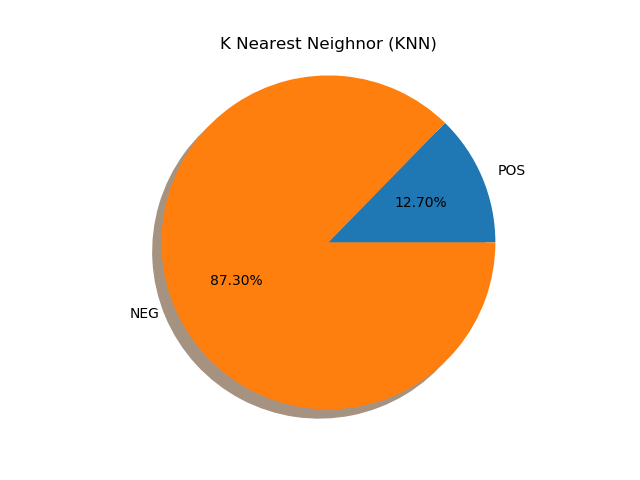
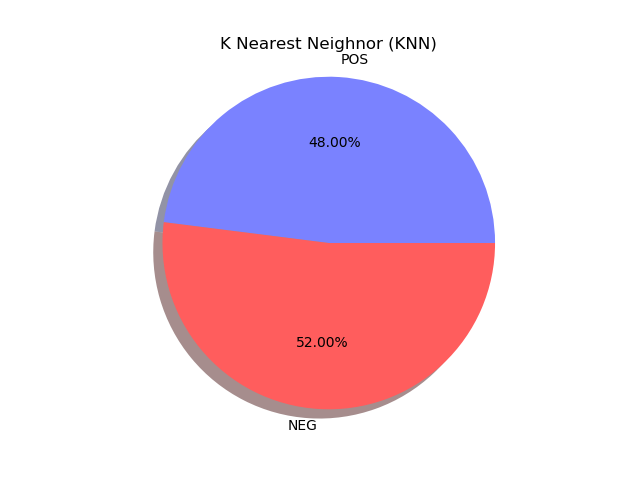
roc added with improvements.

Changed region(s): [[0.1875, 0.0938, 0.7812, 0.9062], [0.7812, 0.3438, 0.8125, 0.375]]

diff --git a/templates/result.html b/templates/result.html
@@ -71,7 +71,7 @@
             <div class="jumbotron jumbotron-fluid">
               <div class="container">
                 <h1 class="display-4">Predictions for {{Name}}</h1>
-                <p class="lead">Comparison Between 4 ML algorithms, showing there respective results:</p>
+                <h5 class="lead">Comparison Between 4 ML algorithms, showing there respective results:</h5>
               </div>
             </div>
           </div>    
@@ -99,6 +99,13 @@
           <div class="col"></div>
         </div>
          <div class="row">
+           <div class="col-lg-12">
+             <h3 class="display-4 pred">
+               Positive % and Negative % for each model
+             </h3>
+           </div>
+         </div>
+         <div class="row">
           
           <div class="col-sm-12 col-lg-6">
              <img class="img-fluid" src="../static/images/svmpie1.png" alt="svm result">
@@ -116,7 +123,18 @@
            </div>
          </div>
          <div class="row">
-           <div class="col"></div>
+           <div class="col">
+             <h3 class="display-4 pred">The ROC curve:</h3>
+             <p>
+               A receiver operating characteristic curve is a graph showing the performance of a classification model at all classification thresholds. This curve plots two parameters:
+               
+             </p>
+             <ul>
+               <li>True Positive Rate</li>
+               <li>False Positive Rate</li>
+             </ul>
+             
+           </div>
            <div class="col-lg-7">
              <div class="row">
                <div class="col">

diff --git a/app.py b/app.py
@@ -33,13 +33,13 @@ def predict():
                 ####
                 polarity = ['POS', 'NEG']
                 explode = [0, 0]
-                
+                colors = ['#7a82ff', '#ff5d5d']
                 
                 # # # Creating pie chart for visual comparisons # # #
                 svm_pos = df['sent_svm'].value_counts('pos')
                 svm_p = svm_pos['pos']*100
                 result = [svm_p,100-svm_p]
-                plt.pie(result, labels = polarity ,autopct='%1.2f%%', radius = 0.50, shadow = True,wedgeprops = {'edgecolor': 'black', 'linewidth': 0})
+                plt.pie(result, colors = colors, labels = polarity ,autopct='%1.2f%%', radius = 0.50, shadow = True,wedgeprops = {'edgecolor': 'black', 'linewidth': 0})
                 plt.title("Support Vector Machine (SVM)")
                 plt.axis('equal')
                 plt.savefig('/Users/sahil/Desktop/sentiproject/static/images/svmpie1.png', transparent= True)
@@ -50,7 +50,7 @@ def predict():
                 knn_pos = df['sent_knn'].value_counts('pos')
                 knn_p = knn_pos['pos']*100
                 result = [knn_p,100-knn_p]
-                plt.pie(result, labels = polarity ,autopct='%1.2f%%', shadow = True, radius = 0.50, wedgeprops = {'edgecolor': 'black', 'linewidth': 0})
+                plt.pie(result, colors = colors, labels = polarity ,autopct='%1.2f%%', shadow = True, radius = 0.50, wedgeprops = {'edgecolor': 'black', 'linewidth': 0})
                 plt.title("K Nearest Neighnor (KNN)")
                 plt.axis('equal')
                 plt.savefig('/Users/sahil/Desktop/sentiproject/static/images/knnpie1.png', transparent= True)
@@ -61,7 +61,7 @@ def predict():
                 lr_pos = df['sent_lr'].value_counts('pos')
                 lr_p = lr_pos['pos']*100
                 result = [lr_p,100-lr_p]
-                plt.pie(result, labels = polarity ,autopct='%1.2f%%', shadow = True, radius = 0.50, wedgeprops = {'edgecolor': 'black', 'linewidth': 0})
+                plt.pie(result, colors = colors, labels = polarity ,autopct='%1.2f%%', shadow = True, radius = 0.50, wedgeprops = {'edgecolor': 'black', 'linewidth': 0})
                 plt.title("Logistic Regression")
                 plt.axis('equal')
                 plt.savefig('/Users/sahil/Desktop/sentiproject/static/images/lrpie1.png', transparent= True)
@@ -72,7 +72,7 @@ def predict():
                 treeC_pos = df['sent_treeC'].value_counts('pos')
                 treeC_p = treeC_pos['pos']*100
                 result = [treeC_p,100-treeC_p]
-                plt.pie(result, labels = polarity ,autopct='%1.2f%%', shadow = True, radius = 0.50, wedgeprops = {'edgecolor': 'black', 'linewidth': 0})
+                plt.pie(result, colors = colors, labels = polarity ,autopct='%1.2f%%', shadow = True, radius = 0.50, wedgeprops = {'edgecolor': 'black', 'linewidth': 0})
                 plt.title("Tree Classifier")
                 plt.axis('equal')
                 plt.savefig('/Users/sahil/Desktop/sentiproject/static/images/tcpie1.png', transparent= True)
@@ -114,13 +114,14 @@ def predict1():
                 ####
                 polarity = ['POS', 'NEG']
                 explode = [0, 0]
+                colors = ['#7a82ff', '#ff5d5d']
                 
                 
                 # # # Creating pie chart for visual comparisons # # #
                 svm_pos = df['sent_svm'].value_counts('pos')
                 svm_p = svm_pos['pos']*100
                 result = [svm_p,100-svm_p]
-                plt.pie(result, labels = polarity ,autopct='%1.2f%%', radius = 0.50, shadow = True,wedgeprops = {'edgecolor': 'black', 'linewidth': 0})
+                plt.pie(result, colors = colors,labels = polarity ,autopct='%1.2f%%', radius = 0.50, shadow = True,wedgeprops = {'edgecolor': 'black', 'linewidth': 0})
                 plt.title("Support Vector Machine (SVM)")
                 plt.axis('equal')
                 plt.savefig('/Users/sahil/Desktop/sentiproject/static/images/svmpie1.png', transparent= True)
@@ -131,7 +132,7 @@ def predict1():
                 knn_pos = df['sent_knn'].value_counts('pos')
                 knn_p = knn_pos['pos']*100
                 result = [knn_p,100-knn_p]
-                plt.pie(result, labels = polarity ,autopct='%1.2f%%', shadow = True, radius = 0.50, wedgeprops = {'edgecolor': 'black', 'linewidth': 0})
+                plt.pie(result, colors = colors, labels = polarity ,autopct='%1.2f%%', shadow = True, radius = 0.50, wedgeprops = {'edgecolor': 'black', 'linewidth': 0})
                 plt.title("K Nearest Neighnor (KNN)")
                 plt.axis('equal')
                 plt.savefig('/Users/sahil/Desktop/sentiproject/static/images/knnpie1.png', transparent= True)
@@ -142,7 +143,7 @@ def predict1():
                 lr_pos = df['sent_lr'].value_counts('pos')
                 lr_p = lr_pos['pos']*100
                 result = [lr_p,100-lr_p]
-                plt.pie(result, labels = polarity ,autopct='%1.2f%%', shadow = True, radius = 0.50, wedgeprops = {'edgecolor': 'black', 'linewidth': 0})
+                plt.pie(result, colors = colors, labels = polarity ,autopct='%1.2f%%', shadow = True, radius = 0.50, wedgeprops = {'edgecolor': 'black', 'linewidth': 0})
                 plt.title("Logistic Regression")
                 plt.axis('equal')
                 plt.savefig('/Users/sahil/Desktop/sentiproject/static/images/lrpie1.png', transparent= True)
@@ -153,7 +154,7 @@ def predict1():
                 treeC_pos = df['sent_treeC'].value_counts('pos')
                 treeC_p = treeC_pos['pos']*100
                 result = [treeC_p,100-treeC_p]
-                plt.pie(result, labels = polarity ,autopct='%1.2f%%', shadow = True, radius = 0.50, wedgeprops = {'edgecolor': 'black', 'linewidth': 0})
+                plt.pie(result, colors = colors, labels = polarity ,autopct='%1.2f%%', shadow = True, radius = 0.50, wedgeprops = {'edgecolor': 'black', 'linewidth': 0})
                 plt.title("Tree Classifier")
                 plt.axis('equal')
                 plt.savefig('/Users/sahil/Desktop/sentiproject/static/images/tcpie1.png', transparent= True)
